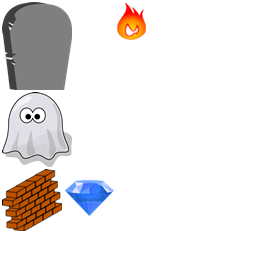
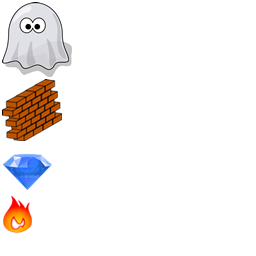
Updated obstacle sprite sheet

Changed region(s): [[0.0, 0.0, 0.4375, 0.9062], [0.4375, 0.0, 0.5938, 0.1562]]

diff --git a/mailPilot-v11/Scripts/managers/asset.js b/mailPilot-v11/Scripts/managers/asset.js
@@ -40,18 +40,16 @@ var managers;
     var projectGameSpriteSheetData = {
         "images": ["assets/images/obstacle.png"],
         "frames": [
-            [64, 169, 50, 50],
-            [2, 169, 60, 62],
-            [116, 2, 30, 38],
-            [2, 92, 70, 75],
-            [2, 2, 70, 88]
+            [2, 143, 50, 50],
+            [2, 79, 60, 62],
+            [2, 195, 30, 38],
+            [2, 2, 70, 75]
         ],
         "animations": {
             "crystal": [0],
             "fence": [1],
             "fireball": [2],
-            "ghost": [3],
-            "stone": [4]
+            "ghost": [3]
         }
     };
     // Asset Manager Class

diff --git a/mailPilot-v11/Scripts/managers/asset.ts b/mailPilot-v11/Scripts/managers/asset.ts
@@ -44,18 +44,16 @@ module managers {
     var projectGameSpriteSheetData = {
         "images": ["assets/images/obstacle.png"],
         "frames": [
-            [64, 169, 50, 50],
-            [2, 169, 60, 62],
-            [116, 2, 30, 38],
-            [2, 92, 70, 75],
-            [2, 2, 70, 88]
+            [2, 143, 50, 50],
+            [2, 79, 60, 62],
+            [2, 195, 30, 38],
+            [2, 2, 70, 75]
         ],
         "animations": {
             "crystal": [0],
             "fence": [1],
             "fireball": [2],
-            "ghost": [3],
-            "stone": [4]
+            "ghost": [3]
         }
     }
 
